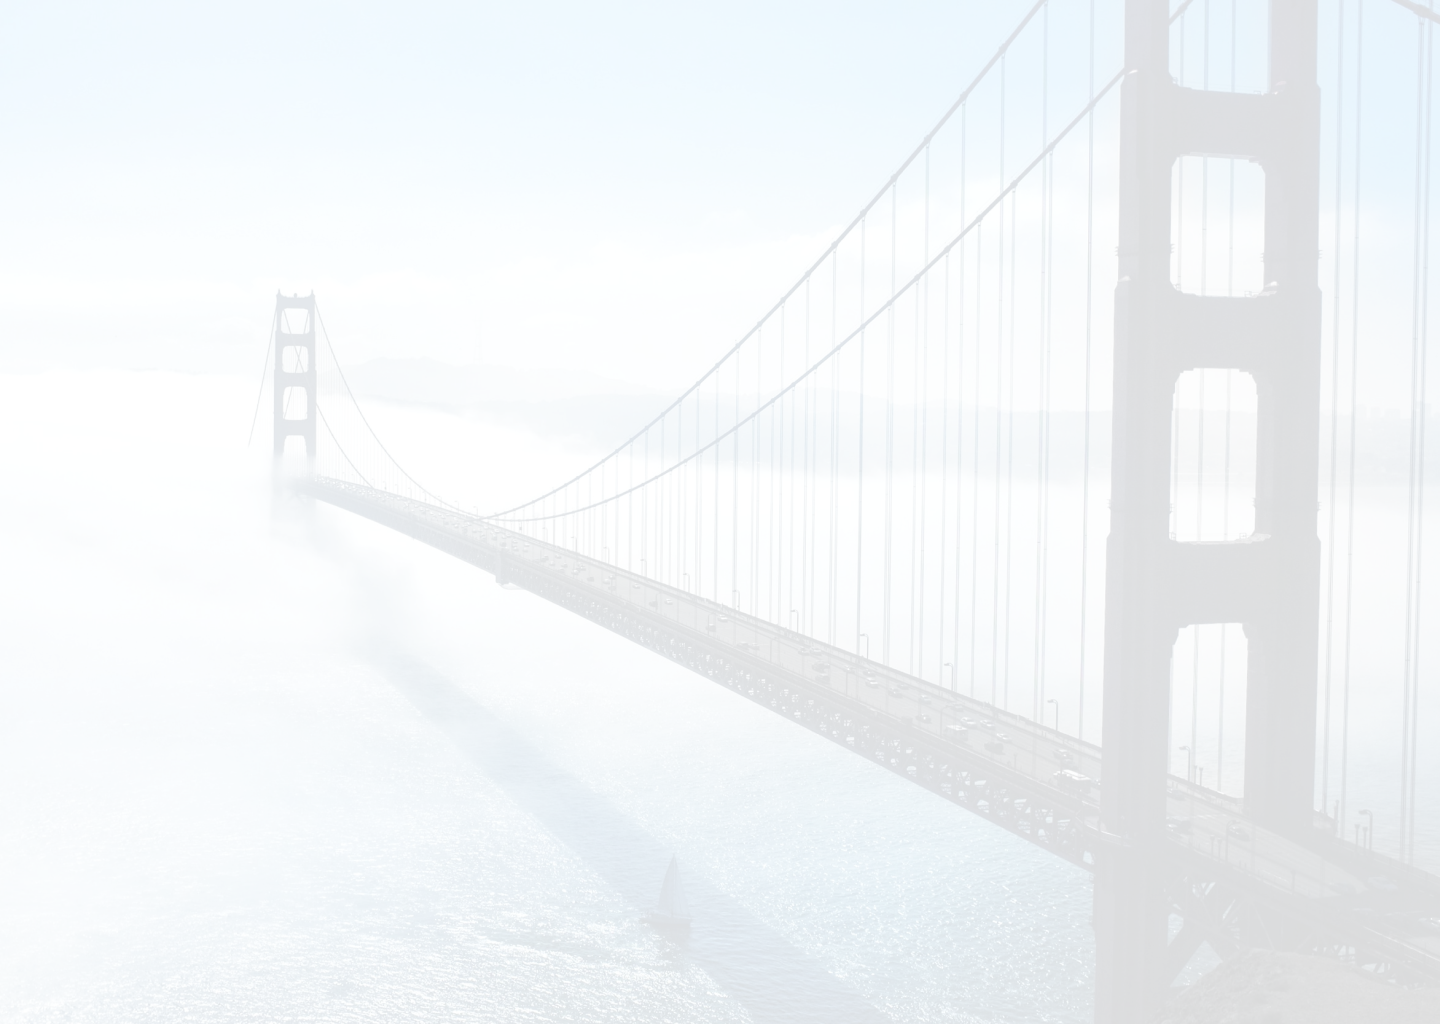
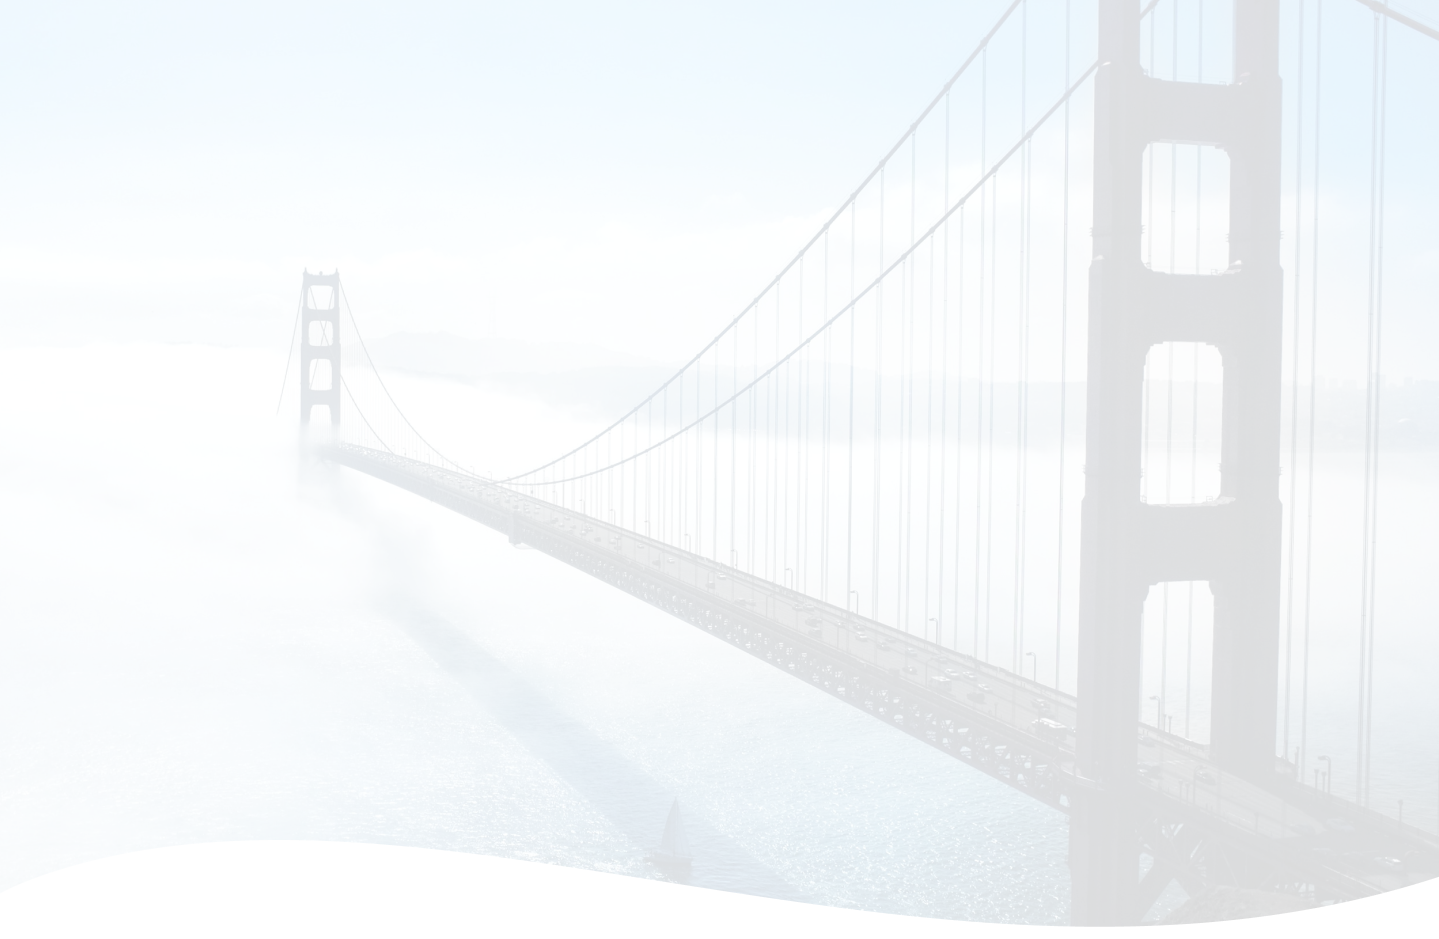
updates

diff --git a/index.html b/index.html
@@ -3,14 +3,17 @@
 <head>
     <meta charset="UTF-8">
     <meta name="viewport" content="width=device-width, initial-scale=1.0">
+    <link href="style.css" rel="stylesheet" type="text/css">
     <link rel="preconnect" href="https://fonts.gstatic.com">
     <link href="https://fonts.googleapis.com/css2?family=Varela+Round&display=swap" rel="stylesheet">
     
     <link rel="preconnect" href="https://fonts.gstatic.com">
     <link href="https://fonts.googleapis.com/css2?family=Lato:wght@700&family=Varela+Round&display=swap" rel="stylesheet">
 
+    
 
-    <!-- Global site tag (gtag.js) - Google Analytics -->
+ 
+    <!-- Global site tag (gtag.js) - Google Analytics 
 <script async src="https://www.googletagmanager.com/gtag/js?id=G-SRP8C75ZH4"></script>
 <script>
   window.dataLayer = window.dataLayer || [];
@@ -19,8 +22,8 @@
 
   gtag('config', 'G-SRP8C75ZH4');
 </script>
-
-<!-- Hotjar Tracking Code for https://hklarich.github.io/ux_ui_hw_project_3/ -->
+-->
+<!-- Hotjar Tracking Code for https://hklarich.github.io/ux_ui_hw_project_3/ 
 <script>
     (function(h,o,t,j,a,r){
         h.hj=h.hj||function(){(h.hj.q=h.hj.q||[]).push(arguments)};
@@ -31,89 +34,86 @@
         a.appendChild(r);
     })(window,document,'https://static.hotjar.com/c/hotjar-','.js?sv=');
 </script>
-<title>Document</title>
+-->
+
+<title>Bridg_EZ</title>
 </head>
 
 <body>
-    <nav class="navbar navbar-expand-lg navbar-light bg-light">
-        <div class="container-fluid">
-          <a class="navbar-brand"><img src="images/logo.png" alt="logo"></a>
-          <button class="navbar-toggler" type="button" data-bs-toggle="collapse" data-bs-target="#navbarSupportedContent" aria-controls="navbarSupportedContent" aria-expanded="false" aria-label="Toggle navigation">
-            <span class="navbar-toggler-icon"></span>
-          </button>
-          <div class="collapse navbar-collapse" id="navbarSupportedContent">
-            <ul class="navbar-nav me-auto mb-2 mb-lg-0">
-              <li class="nav-item">
-                <a class="nav-link active" aria-current="page" href="#">About</a>
-              </li>
-              <li class="nav-item">
-                <a class="nav-link" href="#">Community Guidelines</a>
-              </li>
-              <li class="nav-item">
-                <a class="nav-link" href="#">Contact</a>
-              </li>
-              <li class="nav-item dropdown">
-                <a class="nav-link dropdown-toggle" href="#" id="navbarDropdown" role="button" data-bs-toggle="dropdown" aria-expanded="false">
-                  Languages
-                </a>
-                <ul class="dropdown-menu" aria-labelledby="navbarDropdown">
-                  <li><a class="dropdown-item" href="#">English</a></li>
-                  <li><a class="dropdown-item" href="#">French</a></li>
-                  <li><hr class="dropdown-divider"></li>
-                  <li><a class="dropdown-item" href="#">Japanese</a></li>
-                </ul>
-              </li>
+<header>
+    <div class="container">
+        <div class="navbar">
+            <nav>
+            <a class="logo"><img src="images/logo.png" alt="logo"></a>
+            <ul class="main-nav">
+                <li><a href="#">Abouts</a></li>
+                <li><a href="#">Community Guidelines</a></li>
+                <li><a href="#">Contact</a></li>
+                <li><a class="language"><img src="images/languageIcon.png" alt="language"></a></li>
+                <li><a class="search"><img src="images/searchIcon.png" alt="search"></a></li>
             </ul>
-            <form class="d-flex">
-              <input class="form-control me-2" type="search" placeholder="Search" aria-label="Search">
-              <button class="btn btn-outline-success" type="submit">Search</button>
-            </form>
-          </div>
-        </div>
-      </nav>
-
-      <div class="hero-section">
-        <h1>The Ultimate Language Exchange</h1>
-        <img src="images/globeChat.png" class="globeChat" alt="globe">
-                <h2>Building bridges for easy language learning</h2>
-        <p>Not just a language app, but a community conscious social platform for networking with language learning. 
-
-            Here to accelerate your progress by practicing with fluent speakers through real world connections.</p>
-      </div>
-      <button type="button" class="btn btn-primary">Get Started</button>
-      <button type="button" class="btn btn-primary">Login</button>
-
-<section class="Offer">
-    <h2 class="weOffer">What We Offer</h2>
-
-         <div class="card" style="width: 18rem;">
-            <img src="images/matchesPic.png" class="rounded float-start" alt="Meet">
-            <div class="card-body">
-            <h5 class="card-title">Meet, Chat, Practice</h5>
-            <p class="card-text">Bridg_EZ matches you with others based on your language and life interests. Practice language skills 
-                while engaging with your local and global communities.</p>
-            <a href="#" class="btn btn-primary">Learn More</a>
-            </div>
-
-        </div><div class="card" style="width: 18rem;">
-            <img src="images/groupsPic.png" class="rounded float-end" alt="Groups">
-            <div class="card-body">
-            <h5 class="card-title">Join Interest Groups</h5>
-            <p class="card-text">Meet  international community members through shared interests, hobbies, and activities. Something for everyone with online, local and worldwide events.</p>
-            <a href="#" class="btn btn-primary">Learn More</a>
-            </div>
-            
-        </div><div class="card" style="width: 18rem;">
-            <img src="images/skillsharePic.png" class="rounded float-start" alt="Skillshare">
-            <div class="card-body">
-            <h5 class="card-title">Swap Services & Skills</h5>
-            <p class="card-text">Everyone has something to share and everyone needs help in some way. Every hour donated earns an hour in trade. Community members helping each other.</p>
-            <a href="#" class="btn btn-primary">Learn More</a>
+            </nav></div>
     </div>
-    <button type="button" class="btn btn-outline-primary">Primary</button>
+        
+
+    <section class="heroImg"> 
+        <h1>The Ultimate Language Exchange</h1>
+      <div class="hero-section">
+            <span class="img"><img src="images/globeChat.png" class="globeChat" alt="globe"></span>
+            <span class="subh3"><h3>Building bridges for easy language learning</h3></span>
+            <span class="heroText"><p>Not just a language app, but a community conscious social platform for networking with language learning.<br>
+            <p>Here to accelerate your progress by practicing with fluent speakers through real world connections.</p></span>
+        
+      </div>
+      <button class="btnStart">Get Started</button>
+      <button class="btnLogin">Login</button>
+    </section> 
+
+</header>
+
+
+<section class="cards">
+    <h2 class="offer">What We Offer</h2>
+    <div class="workGrid">
+
+        <div class="workGrid-img item-A">
+            <img src="images/matchesPic.png">
+        </div>
+
+        <div class="workGrid-item item-2a">
+            <h3>Meet, Chat, Practice</h3>
+            <p>Bridg_EZ matches you with others based on your language and life interests. Practice language skills 
+                while engaging with your local and global communities.</p>
+            <button class="learnMore">Learn More</button>
+        </div>
+
+        <div class="workGrid-img item-B">
+            <img src="images/groupsPic.png">
+        </div>
+
+
+        <div class="workGrid-item item-2b">
+            <h3>Join Interest Groups</h3>
+            <p>Meet international community members through shared interests, hobbies, and activities. Something for everyone with online, local and worldwide events.</p>
+            <button class="learnMore">Learn More</button>
+        </div>
+
+
+
+        <div class="workGrid-img item-C">
+            <img src="images/skillsharePic.png">
+        </div>
+
+        <div class="workGrid-item item-2c">
+            <h3>Swap Services & Skills</h3>
+            <p>Everyone has something to share and everyone needs help in some way. Every hour donated earns an hour in trade. Community members helping each other.</p>
+            <button class="learnMore">Learn More</button>
+        </div>
+
     </div>
 
 </section>
+
 </body>
 
 <footer>

diff --git a/style.css b/style.css
@@ -1,0 +1,176 @@
+body {
+    margin: 0;
+    font-family: 'Varela Round', sans-serif;
+}
+
+.container {
+    width: 80%;
+    margin: 0 auto
+    
+    
+}
+
+header {
+    background-image: url("images/bridgeBackground.png");
+    background-size: cover;
+    background-repeat: no-repeat;
+    width: 100%;
+}
+
+.heroImg {
+    height: 1200px;
+}
+
+
+
+.navbar {
+    margin-left: 50px;
+}
+
+
+/*----------------------------------------NavBar---*/
+
+nav {
+    display: inline-flex;
+    
+}
+
+
+nav ul {
+    margin-top: 10px;
+    list-style: none;
+
+}
+
+nav li {
+    display: inline-block;
+    padding: 20px;
+}
+
+nav a {
+    text-decoration: none;
+    font-size: 20px;
+    color: #2C3169;  
+}
+
+h1 {
+    text-align: left;
+    margin-left: 50px;
+    font-family: 'Lato', sans-serif;
+    font-size: 64px;
+    color: #2C3169;
+}
+
+
+h3 {
+    margin-top: 50px;
+    font-family: 'Lato', sans-serif;
+    font-size: 36px;
+    color: #23A0A6;
+}
+
+h2 {
+    font-family: 'Lato', sans-serif;
+    font-size: 48px;
+    color: #2C3169;
+}
+
+.header1 {
+    display: inline-block;
+}
+
+.img {
+    float: left;
+    margin: 50px;
+}
+
+.subh3 {
+    display: inline-block;
+    margin-left: 30% auto;
+}
+
+.heroText {
+    display: inline-block;
+    
+    font-family: 'Varela Round', sans-serif;
+    font-size: 24px;
+}
+
+.btnStart {
+    display: block;
+    width: 280px;
+    height: 44px;
+    margin: 20px 50px 20px 50px;
+    background: #2C3169;
+    color: #F99510;
+    font-size: 24px;
+    border-radius: 30px;
+
+}
+
+.btnLogin {
+    display: block;
+    width: 280px;
+    height: 44px;
+    margin: 20px 50px 20px 50px;
+    background: #FFC761;
+    color: #2C3169;
+    font-size: 24px;
+    border-radius: 30px;
+
+}
+
+.cards {
+    margin: 50px;
+    position: relative;
+    top: 48px;
+
+}
+
+.workGrid {
+    display: grid;
+    justify-content: space-evenly;
+    padding: 50px;
+    row-gap: 100px;
+    grid-template-columns: 36% auto;
+
+}
+
+.workGrid-item.item-2a {
+    margin-left: 50px;
+}
+
+.workGrid-item.item-2b {
+    margin-left: 50px;
+}
+
+.workGrid-item.item-2c {
+    margin-left: 50px;
+}
+
+
+.workGrid-item h3 {
+    font-family: 'Lato', sans-serif;
+    font-size: 32px;
+    color: #23A0A6;
+    text-align: left;
+
+}
+
+
+.workGrid-item p {
+   text-align: left;
+
+}
+
+.learnMore {
+    margin-top: 50px;
+    width: 280px;
+    height: 44px;
+    border: 2px solid #2C3169;
+    background-color: white;
+    color: #428322;
+    justify-content: end;
+    font-size: 24px;
+    border-radius: 30px;
+}
